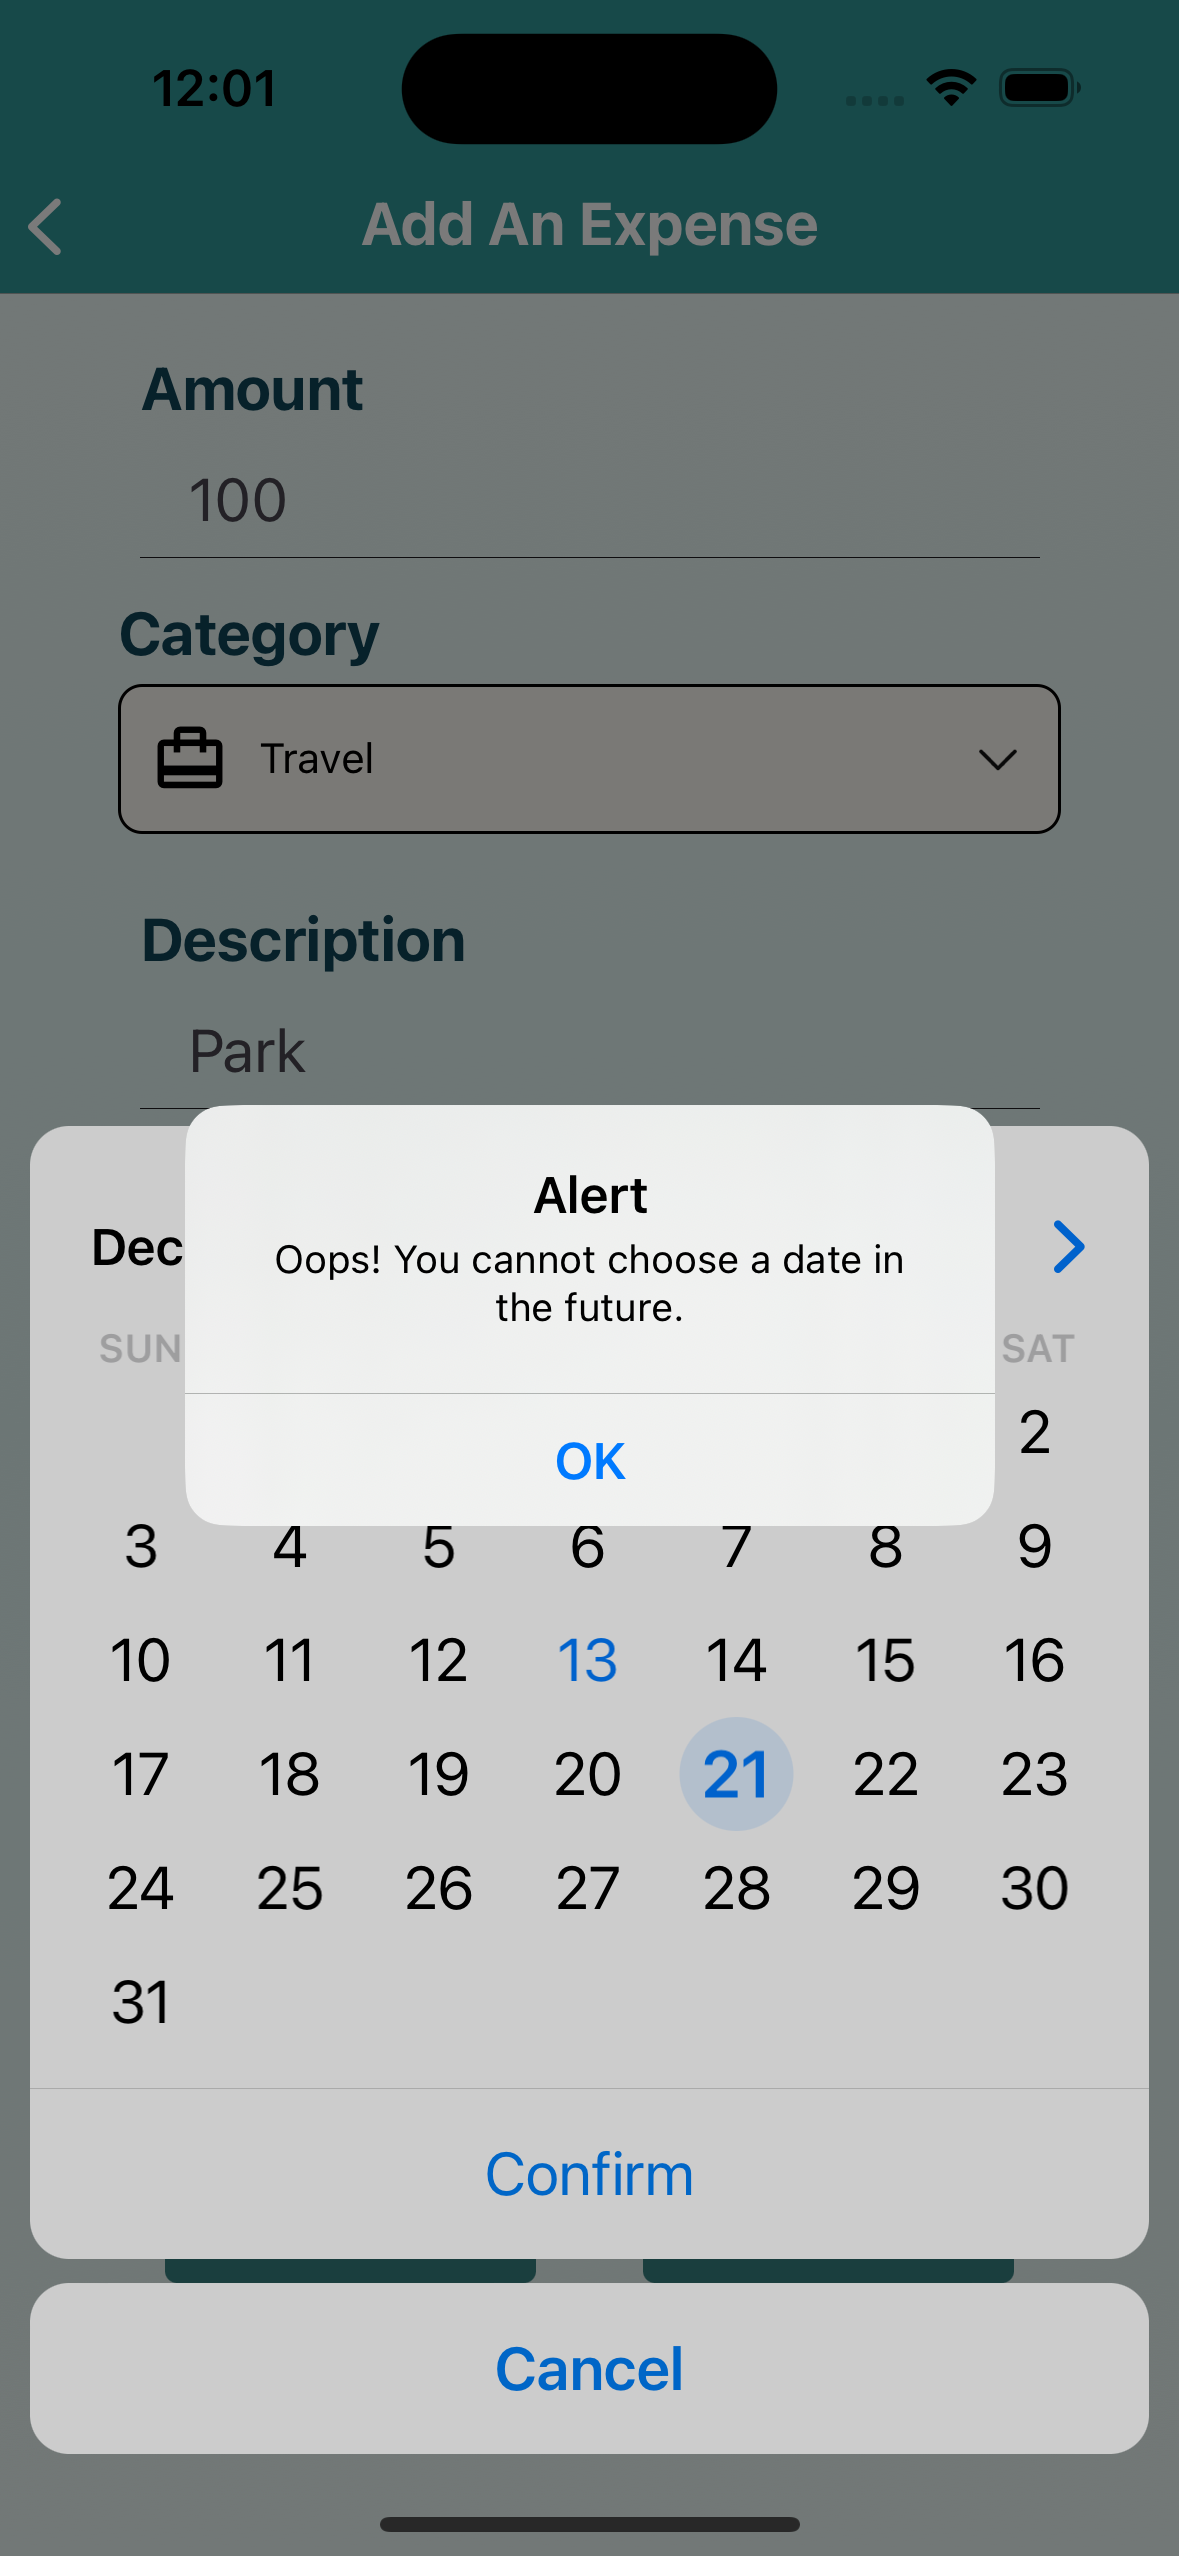
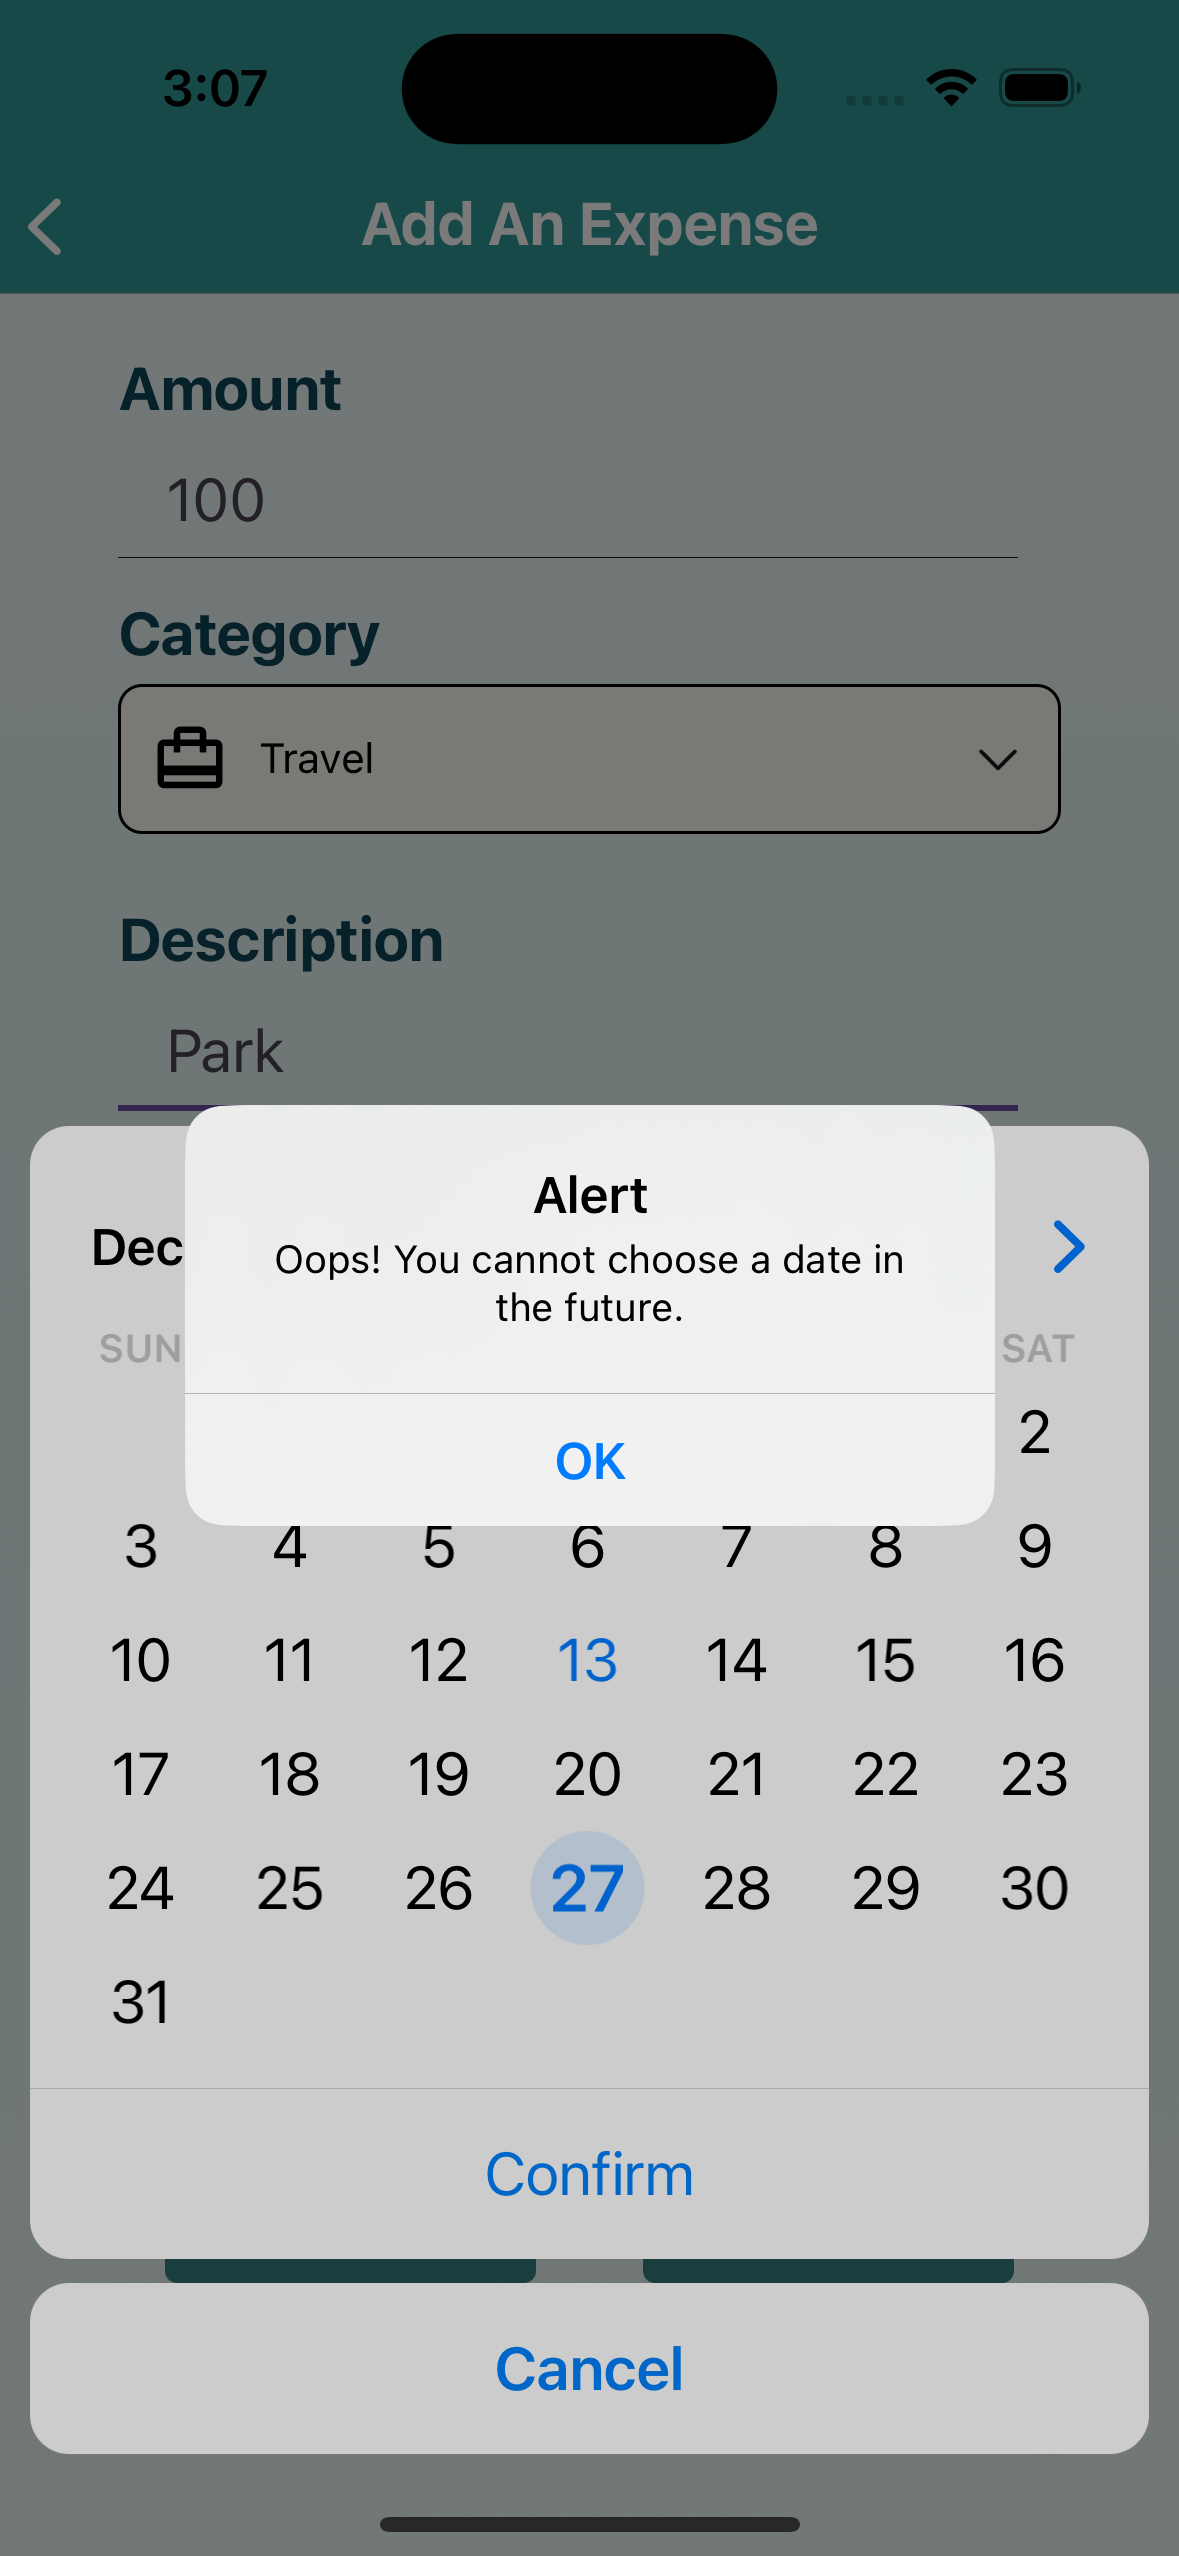
update expense form UI and replace readme's image

diff --git a/components/ExpenseForm.js b/components/ExpenseForm.js
@@ -227,6 +227,7 @@ const styles = StyleSheet.create({
   },
     formField: {
       flex: 0.12,
+      width:'80%',
     },
     dateField: {
       flex: 0.12,
@@ -239,7 +240,6 @@ const styles = StyleSheet.create({
     },
     locationField: {
       flex: 0.12,
-
     },
     categoryField: {
       backgroundColor:'#FFFBF5',
